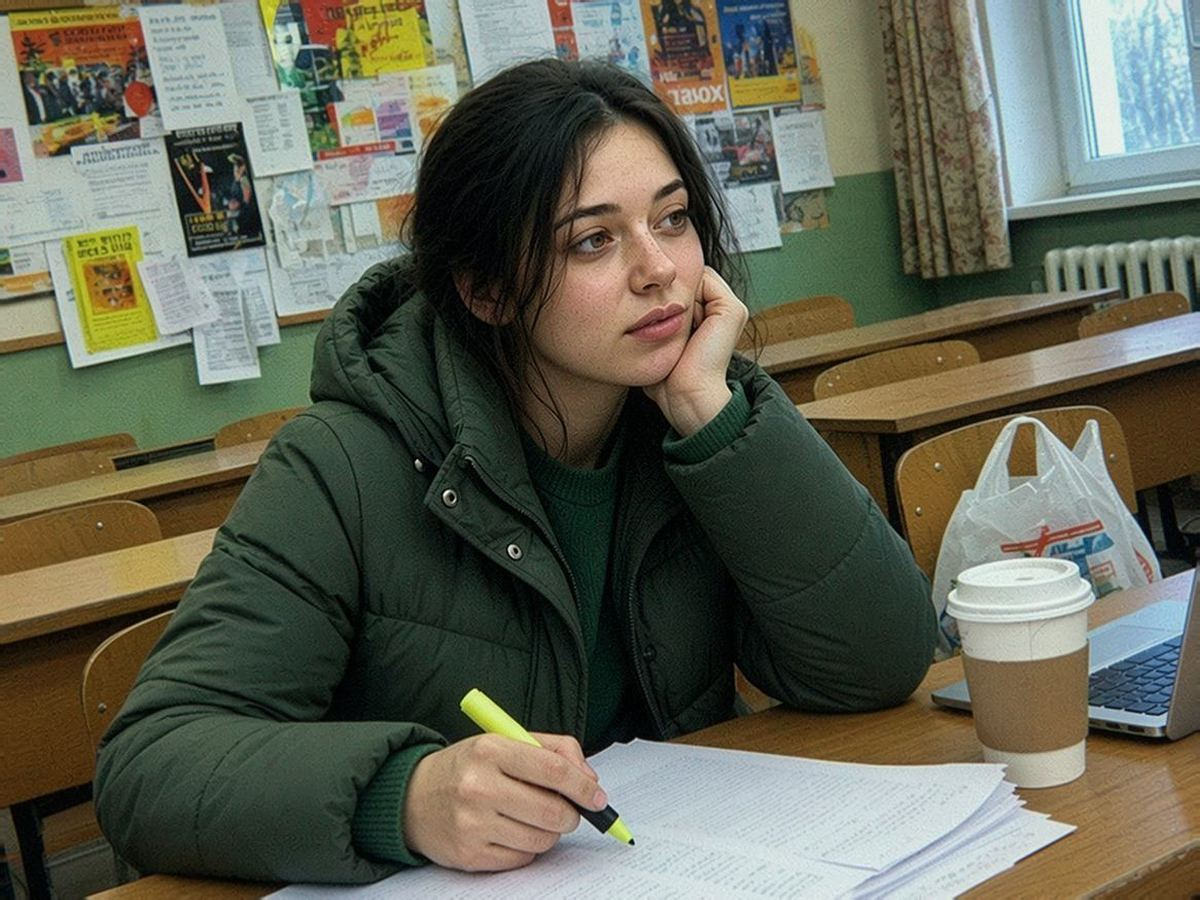
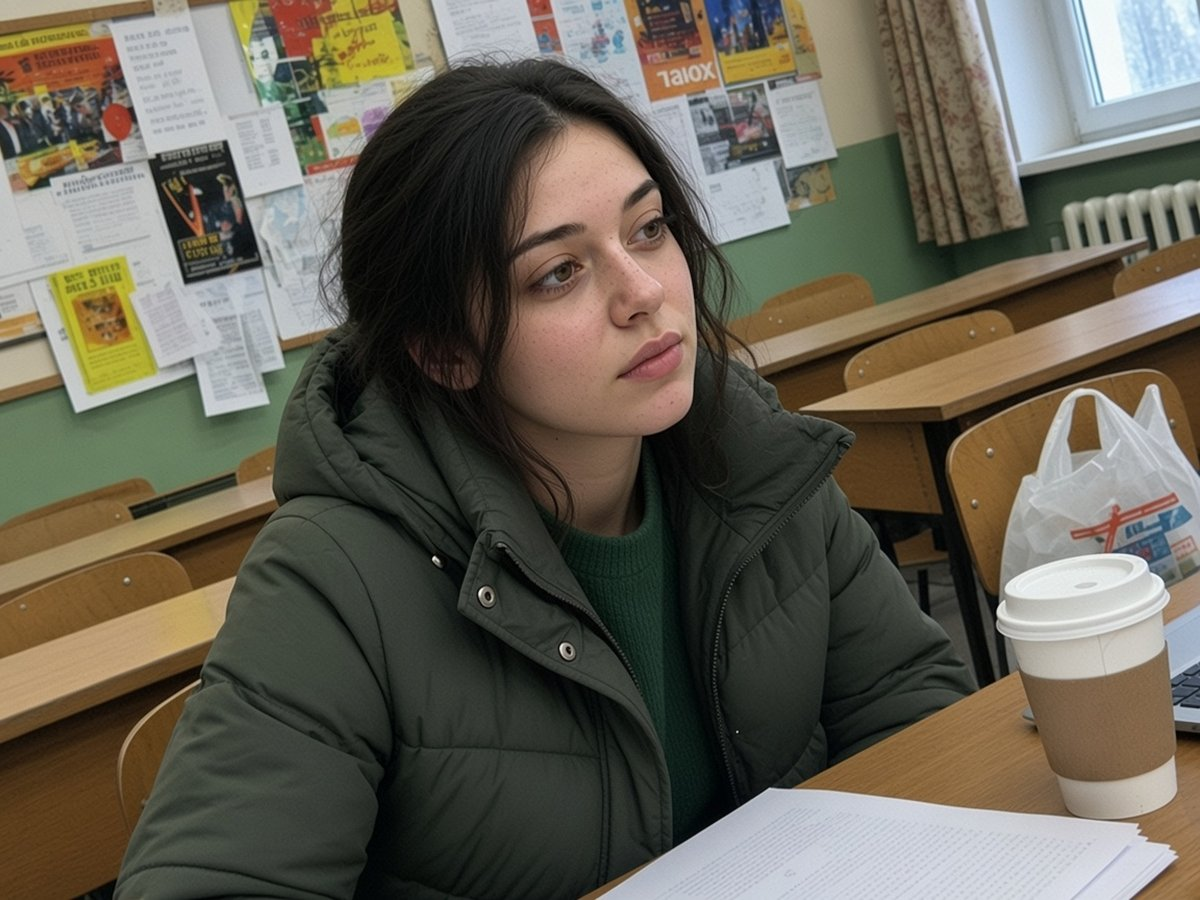
e2e-player: robust post-run reload; ola_life1 v4; SW v90

diff --git a/sw.js b/sw.js
@@ -1,5 +1,5 @@
 // Service worker: gra działa offline po pierwszym uruchomieniu.
-const VERSION = 'quiet-is-safer-v89';
+const VERSION = 'quiet-is-safer-v90';
 const FILES = [
   './', './index.html', './manifest.webmanifest', './icon.svg', './icon-192.png', './icon-512.png', './apple-touch-icon.png',
   './css/base.css', './css/apps.css', './css/web.css', './css/os.css', './css/messenger.css',

diff --git a/docs/PLAN-WDROZENIA-I-PRZEKAZANIE.md b/docs/PLAN-WDROZENIA-I-PRZEKAZANIE.md
@@ -834,3 +834,4 @@ Zostają stare: janina (zielona dominanta), marta/weronika (dodane okulary), nat
 
 ### 2026-10-24 — v4: dokończenie 18 zostawionych zdjęć (SW v89)
 Zamienione (17): marta, weronika (bez okularów), natan (proste włosy), janina (korekta zielonej dominanty gray-world), bartek_life1 (auto), bartek_life2 (tablica/kiosk), maja_life1 (maszyna), igor_life1 (kobieta obok), igor_life2 (bloki, bez ruin), sylwia_life1 (klient mężczyzna), marta_life1, natan_life1, ola_life2, janina_life1, g_slady (wyraźne ślady), e_pudlo (pies+kasety), s1_bagaznik (liny, nożyce, rękawice). Metoda: obecny asset jako referencja + "re-shoot" z zachowaniem treści. Zostaje: ola_life1 (korekta koloru dała magentę). Zgoda Kacpra na samodzielne wdrażanie.
+- e2e-player: reload po przejściu czeka na domcontentloaded (60 s) zamiast load — wcześniej TimeoutError przy przeładowaniu z aktywnym SW. iOS S1–S5 PASS, offline OK, 0 błędów. ola_life1 v4 (bez dłoni, ta sama klasa). SW v90.
